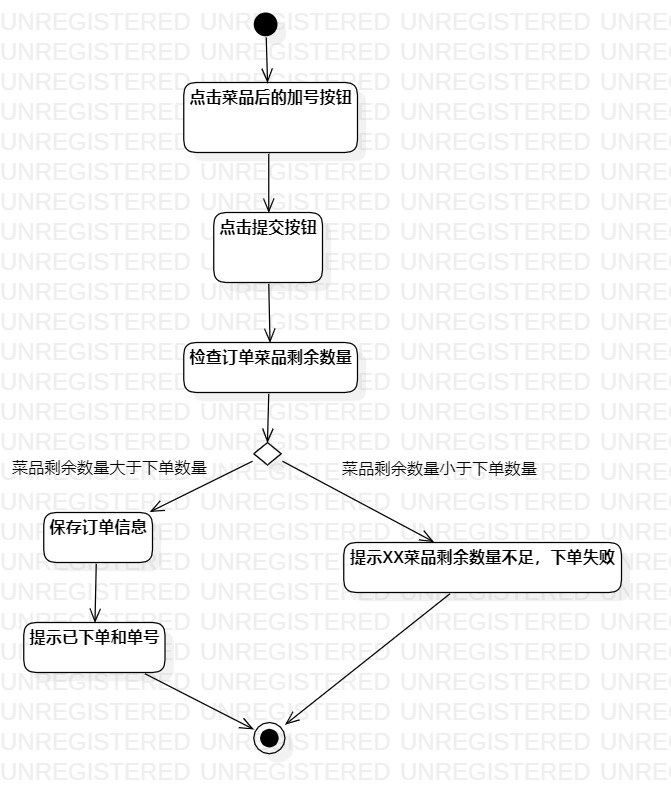
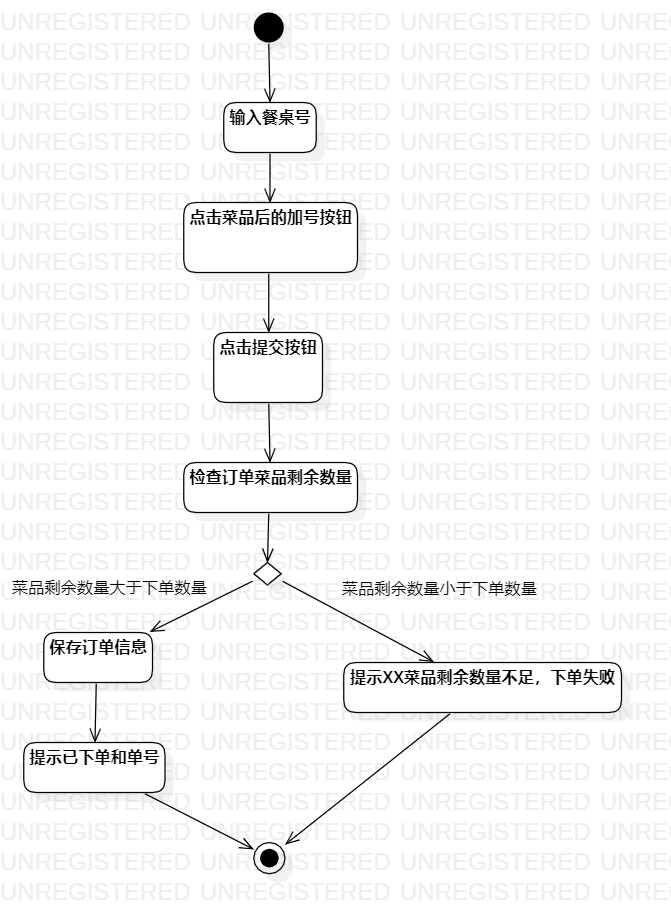
第二次  实验六：交互建模（之前实验修修改)

diff --git a/students/1714080902311/lab2.md b/students/1714080902311/lab2.md
@@ -29,11 +29,12 @@
 用例名称  | 点菜  |   
 前置条件  |   餐厅顾客进入浏览菜单界面   | *可选*   
 后置条件  |      | *可选*   
-基本流程  | 1.餐厅顾客点击想要菜品后的+号，再点击提交按钮  |*用例执行成功的步骤*    
-~| 2.系统查询订单中菜品剩余数量  | 
-~| 3.系统验证订单中菜品剩余数量大于餐厅顾客下单菜品数量  |  
-~| 4.系统保存订单信息，提示【已下单，单号:xx】  |   
-扩展流程  | 3.1 系统验证订单中菜品剩余数量小于订单中菜品数量，提示【xx菜品后厨剩余数量不足，下单失败】  |*用例执行失败*    
+基本流程  | 1.餐厅顾客输入餐桌号  |*用例执行成功的步骤*    
+~| 2.餐厅顾客点击想要菜品后的+号，再点击提交按钮 | 
+~| 3.系统查询订单中菜品剩余数量  | 
+~| 4.系统验证订单中菜品剩余数量大于餐厅顾客下单菜品数量  |  
+~| 5.系统保存订单信息，提示【已下单，单号:xx】  |   
+扩展流程  | 4.1 系统验证订单中菜品剩余数量小于订单中菜品数量，提示【xx菜品后厨剩余数量不足，下单失败】  |*用例执行失败*    
 
 ## 表2：预定餐桌用例规约  
 
